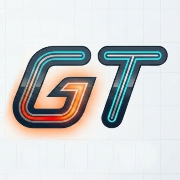
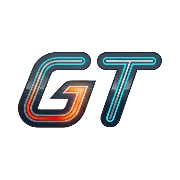
feat: pages metadata

diff --git a/src/04_entities/car/model/get-car.ts b/src/04_entities/car/model/get-car.ts
@@ -1,0 +1,13 @@
+import { cache } from 'react';
+
+import { prisma } from '@/05_shared/lib/prisma/db';
+import { carInclude } from '../lib/const';
+
+export const getCar = cache(async function (carId: string) {
+  return (
+    await prisma.car.findUnique({
+      where: { id: carId },
+      include: carInclude,
+    })
+  );
+});

diff --git a/src/04_entities/setup/model/get-setup.ts b/src/04_entities/setup/model/get-setup.ts
@@ -1,0 +1,13 @@
+import { cache } from 'react';
+
+import { prisma } from '@/05_shared/lib/prisma/db';
+import { setupInclude } from '../lib/const';
+
+export const getSetup = cache(async function (carId: string) {
+  return (
+    await prisma.setup.findUnique({
+      where: { id: carId },
+      include: setupInclude,
+    })
+  );
+});

diff --git a/src/04_entities/track/model/get-track.ts b/src/04_entities/track/model/get-track.ts
@@ -1,0 +1,11 @@
+import { cache } from 'react';
+
+import { prisma } from '@/05_shared/lib/prisma/db';
+
+export const getTrack = cache(async function (trackId: string) {
+  return (
+    await prisma.track.findUnique({
+      where: { id: trackId },
+    })
+  );
+});

diff --git a/src/app/car/[carId]/page.tsx b/src/app/car/[carId]/page.tsx
@@ -1,9 +1,20 @@
 import { CarPage } from '@/01_pages/car';
+import { getCar } from '@/04_entities/car';
 
 interface Params {
   params: Promise<{
     carId: string;
   }>;
+}
+
+export async function generateMetadata({ params }: Params) {
+  const { carId } = await params;
+  const car = await getCar(carId);
+
+  return {
+    title: `${car?.manufacturer} ${car?.name} ${car?.year} specification`,
+    description: `Get the perfect Gran Turismo 7 setup for ${car?.manufacturer} ${car?.name} ${car?.year}.`,
+  };
 }
 
 export default async function CarAppPage({ params }: Params) {

diff --git a/src/app/setup/[setupId]/page.tsx b/src/app/setup/[setupId]/page.tsx
@@ -1,9 +1,20 @@
 import { SetupPage } from '@/01_pages/setup';
+import { getSetup } from '@/04_entities/setup';
 
 interface Params {
   params: Promise<{
     setupId: string;
   }>;
+}
+
+export async function generateMetadata({ params }: Params) {
+  const { setupId } = await params;
+  const setup = await getSetup(setupId);
+
+  return {
+    title: setup?.title,
+    description: `Tune your Gran Turismo 7 ${setup?.car.manufacturer} ${setup?.car.name} ${setup?.car.year}`,
+  };
 }
 
 export default async function SetupAppPage({ params }: Params) {

diff --git a/src/app/track/[trackId]/page.tsx b/src/app/track/[trackId]/page.tsx
@@ -1,9 +1,20 @@
 import { TrackPage } from '@/01_pages/track';
+import { getTrack } from '@/04_entities/track';
 
 interface Params {
   params: Promise<{
     trackId: string;
   }>;
+}
+
+export async function generateMetadata({ params }: Params) {
+  const { trackId } = await params;
+  const track = await getTrack(trackId);
+
+  return {
+    title: `${track?.name}${track?.configName ? ` ${track?.configName}` : ''} details`,
+    description: `Tune your favorite Gran Turismo 7 car the fastest on ${track?.name}${track?.configName ? ` ${track?.configName}` : ''}`,
+  };
 }
 
 export default async function TrackAppPage({ params }: Params) {

diff --git a/src/01_pages/car/ui/car-page.tsx b/src/01_pages/car/ui/car-page.tsx
@@ -1,5 +1,5 @@
 import { SetupList } from '@/02_widgets/setup-list';
-import { CarInclude, carInclude, CarStickyHeader } from '@/04_entities/car';
+import { CarInclude, CarStickyHeader, getCar } from '@/04_entities/car';
 import { LapTimeTrackInclude, lapTimeTrackInclude } from '@/04_entities/lap-time';
 import { SetupTrack } from '@/04_entities/setup';
 import { prisma } from '@/05_shared/lib/prisma/db';
@@ -12,11 +12,7 @@ interface Props {
 
 export async function CarPage({ carId }: Props) {
   const [car, lapTimes] = await Promise.all([
-    prisma.car.findUnique({
-      where: { id: carId },
-      include: carInclude,
-    }),
-
+    getCar(carId),
     prisma.lapTime.findMany({
       where: {
         setup: {

diff --git a/src/01_pages/track/ui/track-page.tsx b/src/01_pages/track/ui/track-page.tsx
@@ -3,7 +3,7 @@ import { notFound } from 'next/navigation';
 import { SetupList } from '@/02_widgets/setup-list';
 import { LapTimeCarInclude, lapTimeCarInclude } from '@/04_entities/lap-time';
 import { SetupCar } from '@/04_entities/setup';
-import { TrackStickyHeader } from '@/04_entities/track';
+import { getTrack, TrackStickyHeader } from '@/04_entities/track';
 import { prisma } from '@/05_shared/lib/prisma/db';
 import { Breadcrumbs } from '@/05_shared/ui/breadcrumbs';
 import { Track } from '@prisma/client';
@@ -14,10 +14,7 @@ interface Props {
 
 export async function TrackPage({ trackId }: Props) {
   const [track, lapTimes] = await Promise.all([
-    prisma.track.findUnique({
-      where: { id: trackId },
-    }),
-
+    getTrack(trackId),
     prisma.lapTime.findMany({
       where: {
         trackId: trackId,

diff --git a/src/app/layout.tsx b/src/app/layout.tsx
@@ -17,8 +17,11 @@ const geistMono = Geist_Mono({
 });
 
 export const metadata: Metadata = {
-  title: 'Create Next App',
-  description: 'Generated by create next app',
+  title: {
+    template: '%s | Nopeus GT',
+    default: 'Nopeus GT — Gran Turismo 7 Setups Sharing Hub',
+  },
+  description: 'Manage and explore optimal setups, car details, and track data for Gran Turismo 7.',
 };
 
 export default function RootLayout({

diff --git a/src/app/car/page.tsx b/src/app/car/page.tsx
@@ -1,4 +1,10 @@
 import { CarListPage } from '@/01_pages/car-list';
+import { Metadata } from 'next';
+
+export const metadata: Metadata = {
+  title: 'Car List',
+  description: 'Browse the complete list of Gran Turismo 7 cars. Filter by category, PP, and drivetrain to find your perfect ride.',
+};
 
 export default function CarListAppPage() {
   return (

diff --git a/src/app/track/page.tsx b/src/app/track/page.tsx
@@ -1,4 +1,10 @@
 import { TrackListPage } from '@/01_pages/track-list';
+import { Metadata } from 'next';
+
+export const metadata: Metadata = {
+  title: 'Track List',
+  description: 'Browse the complete list of Gran Turismo 7 tracks. Filter by type, BoP, and weather to find a perfect location for your ride.',
+};
 
 export default function TrackListAppPage() {
   return <TrackListPage />;

diff --git a/src/04_entities/car/index.ts b/src/04_entities/car/index.ts
@@ -1,4 +1,5 @@
 export { carInclude } from './lib/const';
 export { type CarInclude } from './lib/types';
+export { getCar } from './model/get-car';
 export { CarCard } from './ui/car-card';
 export { CarStickyHeader } from './ui/car-sticky-header';